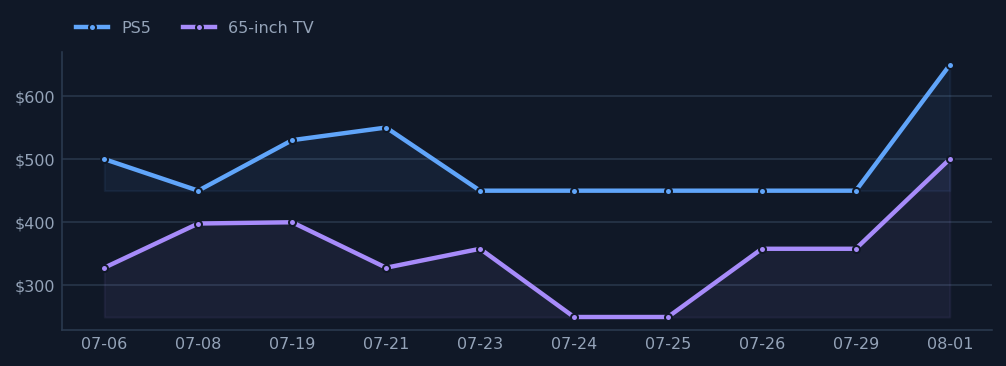
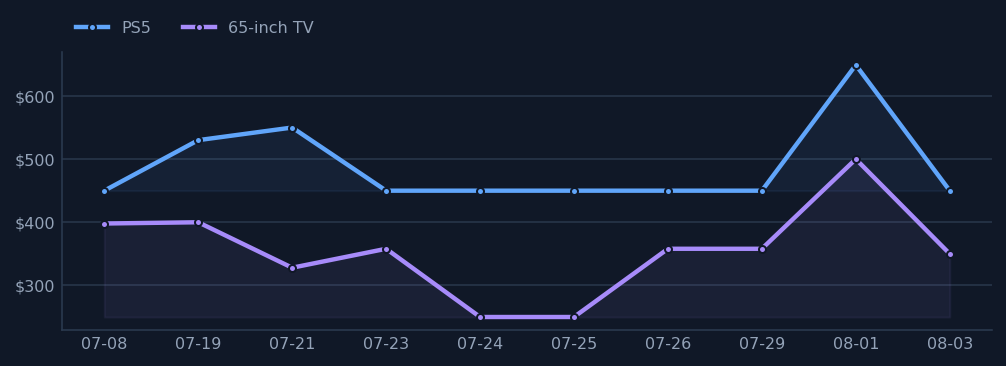
Refresh PS5 and TV deal snapshot

diff --git a/index.html b/index.html
@@ -131,18 +131,18 @@
     <div class="wrap hero-content">
       <span class="eyebrow">Electronics price tracker</span>
       <h1>PS5 and 65-inch TV Deal Tracker</h1>
-      <p class="lead"><span class="desktop-summary" data-recommendation-summary data-fresh-text="PS5: PlayStation Direct $649 for PlayStation 5 Console - 1 TB. TV: Best Buy $499.99 for TCL 65-inch Class QM5K Series 4K UHD QD-Mini LED Smart TV with Google TV (2025)." data-historical-text="Stored values from the last successful refresh are shown for history only. They are not current recommendations." data-unknown-text="Unverified stored rows have no trustworthy refresh time. They are not current recommendations.">PS5: PlayStation Direct $649 for PlayStation 5 Console - 1 TB. TV: Best Buy $499.99 for TCL 65-inch Class QM5K Series 4K UHD QD-Mini LED Smart TV with Google TV (2025).</span><span class="mobile-summary" data-recommendation-summary data-fresh-text="PS5: PlayStation Direct $649. TV: Best Buy $499.99." data-historical-text="Stored values from the last successful refresh are shown for history only. They are not current recommendations." data-unknown-text="Unverified stored rows have no trustworthy refresh time. They are not current recommendations.">PS5: PlayStation Direct $649. TV: Best Buy $499.99.</span></p>
+      <p class="lead"><span class="desktop-summary" data-recommendation-summary data-fresh-text="PS5: Target $449.99 for PlayStation 5 Disc Console 1TB - Fortnite Flowering Chaos Bundle. TV: Best Buy $349.99 for Insignia 65-inch Class QF Series QLED 4K UHD Smart Fire TV." data-historical-text="Stored values from the last successful refresh are shown for history only. They are not current recommendations." data-unknown-text="Unverified stored rows have no trustworthy refresh time. They are not current recommendations.">PS5: Target $449.99 for PlayStation 5 Disc Console 1TB - Fortnite Flowering Chaos Bundle. TV: Best Buy $349.99 for Insignia 65-inch Class QF Series QLED 4K UHD Smart Fire TV.</span><span class="mobile-summary" data-recommendation-summary data-fresh-text="PS5: Target $449.99. TV: Best Buy $349.99." data-historical-text="Stored values from the last successful refresh are shown for history only. They are not current recommendations." data-unknown-text="Unverified stored rows have no trustworthy refresh time. They are not current recommendations.">PS5: Target $449.99. TV: Best Buy $349.99.</span></p>
       <div class="metrics">
         <div class="metric"><span class="eyebrow">Data state</span><strong id="hero-data-state">Fresh</strong><small>Derived from source refresh evidence</small></div>
-        <div class="metric"><span class="eyebrow">Tracked Rows</span><strong>2</strong><small data-row-metric data-fresh-text="Current retailer evidence rows" data-historical-text="Stored retailer evidence rows" data-unknown-text="Unverified stored rows">Current retailer evidence rows</small></div>
+        <div class="metric"><span class="eyebrow">Tracked Rows</span><strong>4</strong><small data-row-metric data-fresh-text="Current retailer evidence rows" data-historical-text="Stored retailer evidence rows" data-unknown-text="Unverified stored rows">Current retailer evidence rows</small></div>
         <div class="metric"><span class="eyebrow">Warnings</span><strong>1</strong><small>manufacturer-direct reference</small></div>
       </div>
       <section
         class="panel refresh-block"
         aria-labelledby="refresh-heading"
         data-refresh-root
-        data-success-at="2026-08-01T11:02:15Z"
-        data-attempt-at="2026-08-01T11:02:38.986378Z"
+        data-success-at="2026-08-03T11:03:48Z"
+        data-attempt-at="2026-08-03T11:04:24.041680Z"
         data-cadence-minutes="2880"
         data-grace-minutes="180"
         data-attempt-status="success"
@@ -159,15 +159,15 @@
           <strong id="refresh-status" class="state-badge fresh" aria-live="polite">Fresh</strong>
         </div>
         <dl class="refresh-facts">
-          <div><dt>Last successful data refresh</dt><dd>Aug 1, 2026 6:02 AM CDT</dd></div>
+          <div><dt>Last successful data refresh</dt><dd>Aug 3, 2026 6:03 AM CDT</dd></div>
           <div><dt>Age</dt><dd id="refresh-age">0 minutes</dd></div>
           <div><dt>Cadence</dt><dd>Every 48 hours + 3-hour grace</dd></div>
-          <div><dt>Next due</dt><dd>Aug 3, 2026 6:02 AM CDT</dd></div>
-          <div><dt>Latest attempt</dt><dd>Aug 1, 2026 6:02 AM CDT (success)</dd></div>
-          <div><dt>Evidence represented</dt><dd>2 rows from 2 sources</dd></div>
+          <div><dt>Next due</dt><dd>Aug 5, 2026 6:03 AM CDT</dd></div>
+          <div><dt>Latest attempt</dt><dd>Aug 3, 2026 6:04 AM CDT (success)</dd></div>
+          <div><dt>Evidence represented</dt><dd>4 rows from 4 sources</dd></div>
         </dl>
         <p class="refresh-reason"><strong>State reason:</strong> <span id="refresh-reason">Data is within the 48-hour refresh cadence.</span></p>
-        <p class="secondary-time"><strong>Render / publish:</strong> rendered Aug 1, 2026 6:02 AM CDT; published Not recorded. These do not change the underlying data age.</p>
+        <p class="secondary-time"><strong>Render / publish:</strong> rendered Aug 3, 2026 6:04 AM CDT; published Not recorded. These do not change the underlying data age.</p>
       </section>
       <section class="panel view-switch" aria-label="Dashboard view">
         <div>
@@ -189,15 +189,61 @@
         <p id="historical-warning" class="historical-warning" data-historical-text="Stored prices and products are from the last successful refresh. They are not current recommendations." data-unknown-text="Unverified stored rows - no trustworthy refresh time. Prices and products are not current recommendations." hidden>Stored prices and products are from the last successful refresh. They are not current recommendations.</p>
         <div class="row-controls" data-row-controls aria-label="Comparison controls">
           <label class="control"><span>Target</span><select data-filter-target><option value="">All targets</option><option value="ps5">PS5</option><option value="tv">65-inch TV</option></select></label>
-          <label class="control"><span>Retailer</span><select data-filter-retailer><option value="">All retailers</option><option value="Best Buy">Best Buy</option><option value="PlayStation Direct">PlayStation Direct</option></select></label>
+          <label class="control"><span>Retailer</span><select data-filter-retailer><option value="">All retailers</option><option value="Best Buy">Best Buy</option><option value="PlayStation Direct">PlayStation Direct</option><option value="Target">Target</option><option value="Walmart">Walmart</option></select></label>
           <label class="control"><span>Status</span><select data-filter-status><option value="">All statuses</option><option value="ready">Ready</option><option value="caution">Caution</option><option value="blocked">Blocked</option></select></label>
           <label class="control"><span>Price order</span><select data-sort-direction><option value="asc">Low to high</option><option value="desc">High to low</option></select></label>
         </div>
-        <p class="result-line"><strong data-result-count aria-live="polite">2 of 2 rows</strong><span>Sorted by price</span></p>
+        <p class="result-line"><strong data-result-count aria-live="polite">4 of 4 rows</strong><span>Sorted by price</span></p>
         <p class="empty-state" data-empty-state hidden>No rows match these filters. Clear one or more filters to see the comparison.</p>
         <table aria-label="PS5 and television retailer comparison">
           <thead><tr><th>Target</th><th>Retailer</th><th>Product</th><th>Price</th><th>Stock</th><th>Warning / action</th></tr></thead>
           <tbody data-deal-table-body>
+          <tr data-deal-row="ps5-target-fortnite-flowering-chaos-bundle" data-target="ps5" data-retailer="Target" data-status="ready" data-price="449.99">
+            <td data-label="Target">PS5</td>
+            <td data-label="Retailer">Target</td>
+            <td data-label="Product"><a href="https://www.target.com/p/-/A-94967680">PlayStation 5 Disc Console 1TB - Fortnite Flowering Chaos Bundle</a></td>
+            <td data-label="Price">$449.99</td>
+            <td data-label="Stock">In Stock; Add to cart shown</td>
+            <td data-label="Warning / action">
+              <div class="row-action-content">
+                <span class="row-status ready">Ready</span>
+                <div class="chips"><span class="chip good" data-fresh-treatment data-fresh-text="clean buy path" data-historical-text="historical evidence" data-unknown-text="unverified evidence">clean buy path</span></div>
+                <details class="row-details">
+                  <summary>Evidence: Target · PlayStation 5 Disc Console 1TB - Fortnite Flowering Chaos Bundle</summary>
+                  <dl class="row-evidence">
+                    <div><dt>Evidence</dt><dd>big-box public price. Target&#x27;s web-visible product page checked on 2026-08-03 displayed the new PS5 Disc Console 1TB Fortnite Flowering Chaos Bundle at $449.99, down from $549.99, In Stock, with Add to cart.</dd></div>
+                    <div><dt>Condition</dt><dd>new</dd></div>
+                    <div><dt>Pickup / delivery</dt><dd>Target product page showed online purchase controls; confirm the selected Houston pickup or delivery option, timing, tax, and final cart total before buying.</dd></div>
+                    <div><dt>Acquired</dt><dd>Aug 3, 2026 6:03 AM CDT</dd></div>
+                    <div><dt>Source</dt><dd><a href="https://www.target.com/p/-/A-94967680">target.com</a></dd></div>
+                  </dl>
+                </details>
+              </div>
+            </td>
+          </tr>
+          <tr data-deal-row="ps5-walmart-ps5-disc-console-slim-1tb" data-target="ps5" data-retailer="Walmart" data-status="ready" data-price="649.0">
+            <td data-label="Target">PS5</td>
+            <td data-label="Retailer">Walmart</td>
+            <td data-label="Product"><a href="https://www.walmart.com/c/kp/playstation-5">PlayStation 5 Disc Console Slim - 1TB</a></td>
+            <td data-label="Price">$649</td>
+            <td data-label="Stock">Add purchase control shown</td>
+            <td data-label="Warning / action">
+              <div class="row-action-content">
+                <span class="row-status ready">Ready</span>
+                <div class="chips"><span class="chip good" data-fresh-treatment data-fresh-text="clean buy path" data-historical-text="historical evidence" data-unknown-text="unverified evidence">clean buy path</span></div>
+                <details class="row-details">
+                  <summary>Evidence: Walmart · PlayStation 5 Disc Console Slim - 1TB</summary>
+                  <dl class="row-evidence">
+                    <div><dt>Evidence</dt><dd>big-box public price. Walmart&#x27;s web-visible PlayStation 5 category checked on 2026-08-03 displayed the PlayStation 5 Disc Console Slim 1TB at a current price of $649.00 with an Add purchase control.</dd></div>
+                    <div><dt>Condition</dt><dd>new</dd></div>
+                    <div><dt>Pickup / delivery</dt><dd>Walmart&#x27;s web-visible PS5 category displayed an Add purchase control; confirm the Houston store, pickup or delivery timing, seller, tax, and final cart total before buying.</dd></div>
+                    <div><dt>Acquired</dt><dd>Aug 3, 2026 6:03 AM CDT</dd></div>
+                    <div><dt>Source</dt><dd><a href="https://www.walmart.com/c/kp/playstation-5">walmart.com</a></dd></div>
+                  </dl>
+                </details>
+              </div>
+            </td>
+          </tr>
           <tr data-deal-row="ps5-playstation-direct-playstation-5-console-1-tb" data-target="ps5" data-retailer="PlayStation Direct" data-status="caution" data-price="649.0">
             <td data-label="Target">PS5</td>
             <td data-label="Retailer">PlayStation Direct</td>
@@ -211,34 +257,34 @@
                 <details class="row-details">
                   <summary>Evidence: PlayStation Direct · PlayStation 5 Console - 1 TB</summary>
                   <dl class="row-evidence">
-                    <div><dt>Evidence</dt><dd>manufacturer reference. Live PlayStation Direct console catalog checked on 2026-08-01 displayed the new PlayStation 5 Console 1 TB at $649.00 and the Digital Edition at $599.00. The page is a manufacturer-direct reference, not a Houston pickup path.</dd></div>
+                    <div><dt>Evidence</dt><dd>manufacturer reference. PlayStation Direct&#x27;s live console catalog checked on 2026-08-03 displayed the new PlayStation 5 Console 1 TB at $649.00 and the Digital Edition at $599.00.</dd></div>
                     <div><dt>Condition</dt><dd>new</dd></div>
                     <div><dt>Pickup / delivery</dt><dd>Manufacturer-direct online purchase path; no Houston pickup path was shown.</dd></div>
-                    <div><dt>Acquired</dt><dd>Aug 1, 2026 6:02 AM CDT</dd></div>
+                    <div><dt>Acquired</dt><dd>Aug 3, 2026 6:03 AM CDT</dd></div>
                     <div><dt>Source</dt><dd><a href="https://direct.playstation.com/en-us/hardware/ps5/">direct.playstation.com</a></dd></div>
                   </dl>
                 </details>
               </div>
             </td>
           </tr>
-          <tr data-deal-row="tv-best-buy-qm5k" data-target="tv" data-retailer="Best Buy" data-status="ready" data-price="499.99">
+          <tr data-deal-row="tv-best-buy-qf-series-65-inch" data-target="tv" data-retailer="Best Buy" data-status="ready" data-price="349.99">
             <td data-label="Target">TV</td>
             <td data-label="Retailer">Best Buy</td>
-            <td data-label="Product"><a href="https://www.bestbuy.com/site/searchpage.jsp?id=pcat17071&amp;st=65+inch+qled+tvs">TCL 65-inch Class QM5K Series 4K UHD QD-Mini LED Smart TV with Google TV (2025)</a></td>
-            <td data-label="Price">$499.99</td>
-            <td data-label="Stock">Add to cart shown</td>
+            <td data-label="Product"><a href="https://www.bestbuy.com/site/searchpage.jsp?id=pcat17071&amp;st=65%22+4k+qled+tv">Insignia 65-inch Class QF Series QLED 4K UHD Smart Fire TV</a></td>
+            <td data-label="Price">$349.99</td>
+            <td data-label="Stock">Add to cart shown; pickup today</td>
             <td data-label="Warning / action">
               <div class="row-action-content">
                 <span class="row-status ready">Ready</span>
                 <div class="chips"><span class="chip good" data-fresh-treatment data-fresh-text="clean buy path" data-historical-text="historical evidence" data-unknown-text="unverified evidence">clean buy path</span></div>
                 <details class="row-details">
-                  <summary>Evidence: Best Buy · TCL 65-inch Class QM5K Series 4K UHD QD-Mini LED Smart TV with Google TV (2025)</summary>
+                  <summary>Evidence: Best Buy · Insignia 65-inch Class QF Series QLED 4K UHD Smart Fire TV</summary>
                   <dl class="row-evidence">
-                    <div><dt>Evidence</dt><dd>big-box public price. Live Best Buy 65-inch QLED search listing checked on 2026-08-01 displayed the TCL QM5K 65-inch QD-Mini LED Google TV at $499.99, with pickup in 1 hour, delivery, and Add to cart.</dd></div>
+                    <div><dt>Evidence</dt><dd>big-box public price. Best Buy&#x27;s live 65-inch QLED search listing checked on 2026-08-03 displayed the Insignia QF Series 65-inch QLED 4K Smart Fire TV at $349.99, down from $499.99, with pickup today, delivery, and Add to cart.</dd></div>
                     <div><dt>Condition</dt><dd>new</dd></div>
-                    <div><dt>Pickup / delivery</dt><dd>Best Buy&#x27;s live 65-inch QLED listing showed pickup in 1 hour and delivery; confirm the selected Houston store, timing, seller, tax, and final cart total before buying.</dd></div>
-                    <div><dt>Acquired</dt><dd>Aug 1, 2026 6:02 AM CDT</dd></div>
-                    <div><dt>Source</dt><dd><a href="https://www.bestbuy.com/site/searchpage.jsp?id=pcat17071&amp;st=65+inch+qled+tvs">bestbuy.com</a></dd></div>
+                    <div><dt>Pickup / delivery</dt><dd>Best Buy&#x27;s web-visible listing showed pickup today and delivery; confirm the selected Houston store, timing, seller, tax, and final cart total before buying.</dd></div>
+                    <div><dt>Acquired</dt><dd>Aug 3, 2026 6:03 AM CDT</dd></div>
+                    <div><dt>Source</dt><dd><a href="https://www.bestbuy.com/site/searchpage.jsp?id=pcat17071&amp;st=65%22+4k+qled+tv">bestbuy.com</a></dd></div>
                   </dl>
                 </details>
               </div>
@@ -256,23 +302,23 @@
         <div class="best-grid" id="best-buys">
           <article class="best-card" data-recommendation-card>
           <span class="eyebrow" data-recommendation-label data-fresh-text="Best Buy Today - PS5" data-historical-text="Best row from last successful refresh - PS5" data-unknown-text="Unverified stored row - no trustworthy refresh time - PS5">Best Buy Today - PS5</span>
-          <h3>PlayStation Direct: $649</h3>
-          <p><a href="https://direct.playstation.com/en-us/hardware/ps5/">PlayStation 5 Console - 1 TB</a></p>
-          <div class="chips"><span class="chip warn">manufacturer-direct reference</span></div>
+          <h3>Target: $449.99</h3>
+          <p><a href="https://www.target.com/p/-/A-94967680">PlayStation 5 Disc Console 1TB - Fortnite Flowering Chaos Bundle</a></p>
+          <div class="chips"><span class="chip good" data-fresh-treatment data-fresh-text="clean buy path" data-historical-text="historical evidence" data-unknown-text="unverified evidence">clean buy path</span></div>
           <dl class="fact-list">
-            <div><dt>Availability</dt><dd>Official catalog price displayed</dd></div>
-            <div><dt>Pickup / delivery</dt><dd>Manufacturer-direct online purchase path; no Houston pickup path was shown.</dd></div>
-            <div><dt>Evidence</dt><dd>manufacturer reference</dd></div>
+            <div><dt>Availability</dt><dd>In Stock; Add to cart shown</dd></div>
+            <div><dt>Pickup / delivery</dt><dd>Target product page showed online purchase controls; confirm the selected Houston pickup or delivery option, timing, tax, and final cart total before buying.</dd></div>
+            <div><dt>Evidence</dt><dd>big-box public price</dd></div>
           </dl>
         </article>
           <article class="best-card" data-recommendation-card>
           <span class="eyebrow" data-recommendation-label data-fresh-text="Best Buy Today - 65-inch TV" data-historical-text="Best row from last successful refresh - 65-inch TV" data-unknown-text="Unverified stored row - no trustworthy refresh time - 65-inch TV">Best Buy Today - 65-inch TV</span>
-          <h3>Best Buy: $499.99</h3>
-          <p><a href="https://www.bestbuy.com/site/searchpage.jsp?id=pcat17071&amp;st=65+inch+qled+tvs">TCL 65-inch Class QM5K Series 4K UHD QD-Mini LED Smart TV with Google TV (2025)</a></p>
+          <h3>Best Buy: $349.99</h3>
+          <p><a href="https://www.bestbuy.com/site/searchpage.jsp?id=pcat17071&amp;st=65%22+4k+qled+tv">Insignia 65-inch Class QF Series QLED 4K UHD Smart Fire TV</a></p>
           <div class="chips"><span class="chip good" data-fresh-treatment data-fresh-text="clean buy path" data-historical-text="historical evidence" data-unknown-text="unverified evidence">clean buy path</span></div>
           <dl class="fact-list">
-            <div><dt>Availability</dt><dd>Add to cart shown</dd></div>
-            <div><dt>Pickup / delivery</dt><dd>Best Buy&#x27;s live 65-inch QLED listing showed pickup in 1 hour and delivery; confirm the selected Houston store, timing, seller, tax, and final cart total before buying.</dd></div>
+            <div><dt>Availability</dt><dd>Add to cart shown; pickup today</dd></div>
+            <div><dt>Pickup / delivery</dt><dd>Best Buy&#x27;s web-visible listing showed pickup today and delivery; confirm the selected Houston store, timing, seller, tax, and final cart total before buying.</dd></div>
             <div><dt>Evidence</dt><dd>big-box public price</dd></div>
           </dl>
         </article>
@@ -286,9 +332,7 @@
           <div class="history-content">
             <table aria-label="Best row price history">
               <thead><tr><th>Date</th><th>Target</th><th>Retailer</th><th>Product</th><th>Price</th></tr></thead>
-              <tbody><tr><td data-label="Date">2026-07-04</td><td data-label="Target">ps5</td><td data-label="Retailer">Target</td><td data-label="Product">PlayStation 5 Disc Console 1TB - Fortnite Flowering Chaos Bundle</td><td data-label="Price">$449.99</td></tr>
-<tr><td data-label="Date">2026-07-04</td><td data-label="Target">tv</td><td data-label="Retailer">Walmart</td><td data-label="Product">Hisense 65 inch M7 Series Mini-LED QLED 4K UHD Google Smart TV</td><td data-label="Price">$398</td></tr>
-<tr><td data-label="Date">2026-07-06</td><td data-label="Target">ps5</td><td data-label="Retailer">Target</td><td data-label="Product">PlayStation 5 Digital Edition 825GB - Fortnite Flowering Chaos Bundle</td><td data-label="Price">$499.99</td></tr>
+              <tbody><tr><td data-label="Date">2026-07-06</td><td data-label="Target">ps5</td><td data-label="Retailer">Target</td><td data-label="Product">PlayStation 5 Digital Edition 825GB - Fortnite Flowering Chaos Bundle</td><td data-label="Price">$499.99</td></tr>
 <tr><td data-label="Date">2026-07-06</td><td data-label="Target">tv</td><td data-label="Retailer">Sam&#x27;s Club</td><td data-label="Product">VIZIO 65 inch Class Quantum Series QLED Smart TV</td><td data-label="Price">$328</td></tr>
 <tr><td data-label="Date">2026-07-08</td><td data-label="Target">ps5</td><td data-label="Retailer">Target</td><td data-label="Product">PlayStation 5 Disc Astrobot Bundle</td><td data-label="Price">$449.99</td></tr>
 <tr><td data-label="Date">2026-07-08</td><td data-label="Target">tv</td><td data-label="Retailer">Walmart</td><td data-label="Product">Hisense 65 inch M7 Series Mini-LED QLED 4K UHD Google Smart TV</td><td data-label="Price">$398</td></tr>
@@ -305,7 +349,9 @@
 <tr><td data-label="Date">2026-07-26</td><td data-label="Target">ps5</td><td data-label="Retailer">Target</td><td data-label="Product">PlayStation 5 Disc Console 1TB - Fortnite Flowering Chaos Bundle</td><td data-label="Price">$449.99</td></tr>
 <tr><td data-label="Date">2026-07-26</td><td data-label="Target">tv</td><td data-label="Retailer">Walmart</td><td data-label="Product">TCL 65-inch Q Series QLED 4K UHD HDR Smart Google TV</td><td data-label="Price">$358</td></tr>
 <tr><td data-label="Date">2026-07-29</td><td data-label="Target">ps5</td><td data-label="Retailer">Target</td><td data-label="Product">PlayStation 5 Disc Console 1TB - Fortnite Flowering Chaos Bundle</td><td data-label="Price">$449.99</td></tr>
-<tr><td data-label="Date">2026-07-29</td><td data-label="Target">tv</td><td data-label="Retailer">Walmart</td><td data-label="Product">TCL 65-inch Q Series QLED 4K UHD HDR Smart Google TV</td><td data-label="Price">$358</td></tr></tbody>
+<tr><td data-label="Date">2026-07-29</td><td data-label="Target">tv</td><td data-label="Retailer">Walmart</td><td data-label="Product">TCL 65-inch Q Series QLED 4K UHD HDR Smart Google TV</td><td data-label="Price">$358</td></tr>
+<tr><td data-label="Date">2026-08-01</td><td data-label="Target">ps5</td><td data-label="Retailer">PlayStation Direct</td><td data-label="Product">PlayStation 5 Console - 1 TB</td><td data-label="Price">$649</td></tr>
+<tr><td data-label="Date">2026-08-01</td><td data-label="Target">tv</td><td data-label="Retailer">Best Buy</td><td data-label="Product">TCL 65-inch Class QM5K Series 4K UHD QD-Mini LED Smart TV with Google TV (2025)</td><td data-label="Price">$499.99</td></tr></tbody>
             </table>
           </div>
         </details>
@@ -326,29 +372,29 @@
   "age_minutes": 0,
   "archived": false,
   "cadence_minutes": 2880,
-  "data_refreshed_at_central": "Aug 1, 2026 6:02 AM CDT",
-  "data_refreshed_at_utc": "2026-08-01T11:02:15Z",
-  "evaluated_at_utc": "2026-08-01T11:02:42.485896Z",
+  "data_refreshed_at_central": "Aug 3, 2026 6:03 AM CDT",
+  "data_refreshed_at_utc": "2026-08-03T11:03:48Z",
+  "evaluated_at_utc": "2026-08-03T11:04:24.073333Z",
   "grace_minutes": 180,
-  "last_attempt_at_central": "Aug 1, 2026 6:02 AM CDT",
-  "last_attempt_at_utc": "2026-08-01T11:02:38.986378Z",
+  "last_attempt_at_central": "Aug 3, 2026 6:04 AM CDT",
+  "last_attempt_at_utc": "2026-08-03T11:04:24.041680Z",
   "last_attempt_reason": null,
   "last_attempt_status": "success",
-  "next_due_at_central": "Aug 3, 2026 6:02 AM CDT",
-  "next_due_at_utc": "2026-08-03T11:02:15Z",
+  "next_due_at_central": "Aug 5, 2026 6:03 AM CDT",
+  "next_due_at_utc": "2026-08-05T11:03:48Z",
   "published_at_central": "Not recorded",
   "published_at_utc": null,
   "quality_counts": {
-    "big_box_public_price": 1,
+    "big_box_public_price": 3,
     "manufacturer_direct_reference": 1
   },
   "reason": "Data is within the 48-hour refresh cadence.",
-  "rendered_at_central": "Aug 1, 2026 6:02 AM CDT",
-  "rendered_at_utc": "2026-08-01T11:02:42.485896Z",
-  "row_count": 2,
-  "source_count": 2,
-  "stale_after_at_central": "Aug 3, 2026 9:02 AM CDT",
-  "stale_after_at_utc": "2026-08-03T14:02:15Z",
+  "rendered_at_central": "Aug 3, 2026 6:04 AM CDT",
+  "rendered_at_utc": "2026-08-03T11:04:24.073333Z",
+  "row_count": 4,
+  "source_count": 4,
+  "stale_after_at_central": "Aug 5, 2026 9:03 AM CDT",
+  "stale_after_at_utc": "2026-08-05T14:03:48Z",
   "state": "Fresh",
   "timezone": "America/Chicago"
 }</script>
